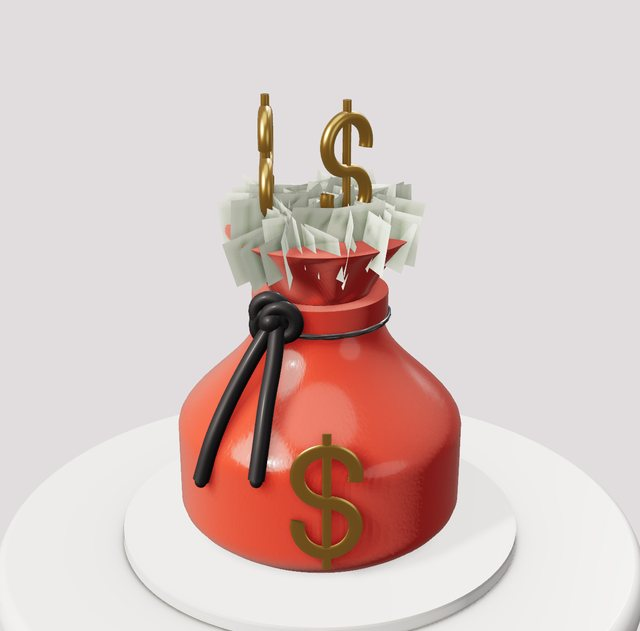
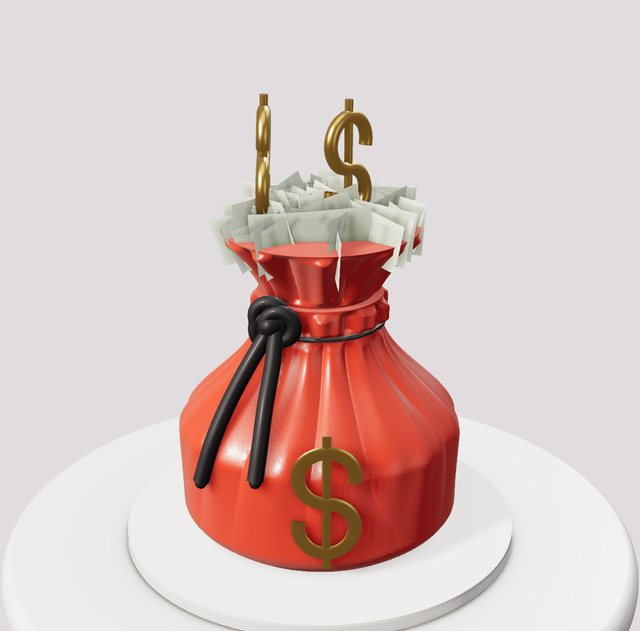
Bee body in piped grass tip; money bag gathered fabric folds (new Gathered Fabric texture)
Claude-Session: https://claude.ai/code/session_016sN14hzH19WJ5zrp8o2QGp

diff --git a/studio.html b/studio.html
@@ -439,7 +439,7 @@ const ti=b=>'<svg viewBox="0 0 48 24" fill="none" stroke="currentColor" stroke-w
 const TEX_ICONS={rosettes:ti('<circle cx="14" cy="8" r="4"/><circle cx="24" cy="8" r="4"/><circle cx="34" cy="8" r="4"/><circle cx="19" cy="16" r="4"/><circle cx="29" cy="16" r="4"/><path d="M14 8m-1.5 0a1.5 1.5 0 1 0 1.5-1.5M24 8m-1.5 0a1.5 1.5 0 1 0 1.5-1.5M34 8m-1.5 0a1.5 1.5 0 1 0 1.5-1.5" stroke-width="1"/>'),smooth:ti('<rect x="8" y="4" width="32" height="16" rx="2"/>'),seminaked:ti('<rect x="8" y="4" width="32" height="16" rx="2"/><path d="M10 10h8M22 10h6M32 10h6M12 15h10M26 15h10" stroke-dasharray="2 2"/>'),lines:ti('<path d="M8 6h32M8 10h32M8 14h32M8 18h32"/>'),ribbed:ti('<path d="M12 4v16M17 4v16M22 4v16M27 4v16M32 4v16M37 4v16"/>'),scallop:ti('<path d="M8 8c2-3 4-3 6 0s4 3 6 0 4-3 6 0 4 3 6 0 4-3 6 0M8 15c2-3 4-3 6 0s4 3 6 0 4-3 6 0 4 3 6 0 4-3 6 0"/>'),stripes:ti('<path d="M8 6h32M8 14h32" stroke-width="3"/><path d="M8 10h32M8 18h32" stroke-width="3" opacity=".4"/>'),combed:ti('<path d="M8 7h32M8 9.5h32M8 12h32M8 14.5h32M8 17h32" stroke-width="1"/>'),knife:ti('<path d="M8 16l8-8 6 5 7-7 5 4 6-4M10 20l9-5 7 3 9-6"/>'),stucco:ti('<path d="M10 16l2-5 2 5M18 12l2-5 2 5M26 16l2-5 2 5M34 12l2-5 2 5M14 20l2-4 2 4M30 20l2-4 2 4"/>'),swirl:ti('<path d="M10 14c0-6 10-6 10 0s-6 5-6 1M26 12c0-6 10-6 10 0s-6 5-6 1"/>'),wave:ti('<path d="M3 8c4-5 7 5 11 0s7 5 11 0 7 5 11 0 7 5 9 0M3 17c4-5 7 5 11 0s7 5 11 0 7 5 11 0 7 5 9 0"/>'),zigzag:ti('<path d="M3 9l5-5 5 5 5-5 5 5 5-5 5 5 5-5 5 5M3 19l5-5 5 5 5-5 5 5 5-5 5 5 5-5 5 5"/>'),basket:ti('<path d="M4 4h14v7H4zM20 4h14v7H20zM4 13h14v7H4zM20 13h14v7H20zM36 4h8v7h-8zM36 13h8v7h-8z"/>'),diamond:ti('<path d="M12 2l10 10-10 10L2 12zM32 2l10 10-10 10-10-10z"/>'),golf:ti('<circle cx="8" cy="7" r="2"/><circle cx="18" cy="7" r="2"/><circle cx="28" cy="7" r="2"/><circle cx="38" cy="7" r="2"/><circle cx="13" cy="15" r="2"/><circle cx="23" cy="15" r="2"/><circle cx="33" cy="15" r="2"/>'),dimple:ti('<circle cx="10" cy="7" r="3"/><circle cx="24" cy="7" r="3"/><circle cx="38" cy="7" r="3"/><circle cx="17" cy="17" r="3"/><circle cx="31" cy="17" r="3"/>'),ruffle:ti('<path d="M6 2c-4 6 4 14 0 20M16 2c-4 6 4 14 0 20M26 2c-4 6 4 14 0 20M36 2c-4 6 4 14 0 20"/>'),brushed:ti('<path d="M8 2v20M15 4v18M22 2v19M29 5v17M36 2v20"/>'),swipes:ti('<path d="M8 20l4-18M17 22l4-18M26 20l4-18M35 22l4-18"/>')};TEX_ICONS.grass=ti('<path d="M6 20l1-12M10 20l-1-10M14 20l2-12M18 20l-1-9M22 20l2-12M26 20l-1-10M30 20l2-12M34 20l-1-9M38 20l2-11M42 20l-1-10"/>');TEX_ICONS.fur=ti('<path d="M5 8c1 4 3 6 4 10M11 8c1 4 3 6 4 10M17 8c1 4 3 6 4 10M23 8c1 4 3 6 4 10M29 8c1 4 3 6 4 10M35 8c1 4 3 6 4 10M41 8c1 4 2 6 3 10"/>');
 const DRIPS=['#3b2216','#6b3f24','#f4ecdf','#b8742e','#d4ae5a','#c9ccd2','#e9a6ba','#9fc0d6'];
 const PALETTES=[{name:'Blush And Ivory',frost:['#fbf7f1','#f3d6dc','#fbf7f1'],pipe:'#fbf7f1',bow:'#f29bb4'},{name:'Sage Garden',frost:['#c9d8c5','#fbf7f1','#c9d8c5'],pipe:'#fbf7f1',bow:'#9db59a'},{name:'Dusty Blue',frost:['#d9e6ee','#fbf7f1','#d9e6ee'],pipe:'#fbf7f1',bow:'#9fc0d6'},{name:'Lavender',frost:['#cbbfe0','#fbf7f1','#cbbfe0'],pipe:'#fbf7f1',bow:'#cbbfe0'},{name:'Peach',frost:['#f6dcc8','#fbf7f1','#f6dcc8'],pipe:'#fbf7f1',bow:'#e9a6ba'},{name:'Black And Gold',frost:['#2f2a2c','#fbf7f1','#2f2a2c'],pipe:'#c9a24e',bow:'#c9a24e'},{name:'Chocolate Caramel',frost:['#7a4a32','#e7c08f','#7a4a32'],pipe:'#e7c08f',bow:'#6b4a3a'},{name:'All White',frost:['#fbf7f1','#fbf7f1','#fbf7f1'],pipe:'#fbf7f1',bow:'#fbf7f1'}];
-const TEXTURES={rosettes:'Rosette Cake',smooth:'Smooth',knife:'Palette Knife',lines:'Comb Lines',ribbed:'Ribbed Comb',scallop:'Scalloped',stripes:'Two-Tone Stripes',swirl:'Rustic Swirl',stucco:'Stucco Peaks',combed:'Fine Combed',seminaked:'Semi-Naked',wave:'Wavy Comb',zigzag:'Chevron Comb',basket:'Basket Weave',diamond:'Diamond Quilt',dimple:'Pillow Dimples',golf:'Golf Ball Dimples',ruffle:'Buttercream Ruffles',frills:'Fondant Frills',vruffles:'Vertical Fondant Ruffles',brushed:'Brushed Streaks',swipes:'Spatula Swipes',grass:'Piped Grass (All Over)',fur:'Piped Fur (All Over)'};
+const TEXTURES={rosettes:'Rosette Cake',smooth:'Smooth',knife:'Palette Knife',lines:'Comb Lines',ribbed:'Ribbed Comb',scallop:'Scalloped',stripes:'Two-Tone Stripes',swirl:'Rustic Swirl',stucco:'Stucco Peaks',combed:'Fine Combed',seminaked:'Semi-Naked',wave:'Wavy Comb',zigzag:'Chevron Comb',basket:'Basket Weave',diamond:'Diamond Quilt',dimple:'Pillow Dimples',golf:'Golf Ball Dimples',ruffle:'Buttercream Ruffles',frills:'Fondant Frills',vruffles:'Vertical Fondant Ruffles',gathers:'Gathered Fabric',brushed:'Brushed Streaks',swipes:'Spatula Swipes',grass:'Piped Grass (All Over)',fur:'Piped Fur (All Over)'};
 const BORDERS={none:'None',shells:'Shells',rshells:'Reverse Shells',pearls:'Pearls',dpearls:'Double Pearls',kisses:'Kisses',stars:'Star Drops',dflowers:'Drop Flowers',rosettes:'Rosettes',rope:'Rope',scrolls:'C-Scrolls',zigzag:'Zigzag',ruffle:'Ruffle',leaves:'Leaves',grass:'Piped Grass'};
 const SIDES={none:'None',drapes:'Fondant Drapes',swags:'Swags',double:'Double Swags',lambeth:'Lambeth',strings:'Drop Strings',quilted:'Quilted Pearls',deco:'Art Deco Fans'};
 const TOPS={none:'None',roses:'Sugar Roses',berries:'Fresh Berries',rosettes:'Rosette Crown',horn:'Unicorn Horn'};
@@ -1124,7 +1124,7 @@ const TEX3D={
  diamond:{rows:150,segs:400,make:(r,h,q)=>{const Nd=Math.max(8,Math.round(2*PI*r/.75));return(a,yy)=>{const ui=a/(2*PI)*Nd,vi=yy/.75;return .06*(Math.abs(Math.sin(PI*(ui+vi)))*Math.abs(Math.sin(PI*(ui-vi)))-.3)}}},
  dimple:{rows:150,segs:400,make:(r,h,q)=>{const N=Math.max(8,Math.round(2*PI*r/.6));return(a,yy)=>.05*Math.cos(N*a)*Math.cos(2*PI*yy/.6)}},
  golf:{rows:190,segs:640,make:(r,h,q)=>{const sp=.42,N=Math.max(10,Math.round(2*PI*r/sp)),cu=2*PI*r/N,vh=sp*.866,fr=x=>x-Math.floor(x);return(a,yy)=>{const v=yy/vh,row=Math.floor(v),u=fr(a/(2*PI))*N+(row%2?.5:0),du=(fr(u)-.5)*cu,dv=(fr(v)-.5)*vh,d=Math.hypot(du,dv),k=Math.max(0,1-d/.16);return -.045*k*k*(3-2*k)}}},
- vruffles:{rows:130,segs:1100,make:(r,h,q,t)=>{const V=(t&&t.vr)||{},N=Math.max(20,Math.round(r*7.5)),c=(V.c??180)*PI/180,w0=(V.w0??180)*PI/180,w1=(V.w1??180)*PI/180,A=V.depth??.34,ph=q()*6.28;return(a,yy)=>{const u=Math.min(1,Math.max(0,yy/h)),w=w0+(w1-w0)*u,d=Math.abs(Math.atan2(Math.sin(a-c),Math.cos(a-c))),m=w>=PI?1:smooth(w,w-.2,d);if(m<=0)return 0;const s=N*a/(2*PI)+.32*Math.sin(yy*1.5+ph+a*3)+.12*Math.sin(yy*3.7+a*7),f=s-Math.floor(s),pr=Math.pow(1-f,.55);return m*(A*(1.25-.45*u)*(.15+.85*pr)+.04*Math.sin(yy*6+a*13+ph))}}},frills:{rows:140,segs:720,make:(r,h,q)=>{const N=Math.max(12,Math.round(r*4.2)),RH=Math.max(1,h/Math.max(2,Math.round(h/1.35))),ph=[...Array(12)].map(()=>q()*6.28);return(a,yy)=>{const k=Math.floor(yy/RH),u=yy/RH-k,p=ph[k%12],w=Math.sin(N*a+p+.6*Math.sin(3*a+p))*.6+Math.sin(N*1.7*a+p*2)*.4;return(.03+.2*Math.pow(1-u,1.6))*(.55+.45*w)-.05}}},ruffle:{rows:50,segs:480,make:(r,h,q)=>{const N=Math.max(10,Math.round(r*3.4));return(a,yy)=>.1*Math.sin(N*a+.35*Math.sin(yy*.9))}},
+ gathers:{rows:120,segs:720,make:(r,h,q,t)=>{const N=Math.max(10,Math.round(r*2.6)),ph=[...Array(N)].map(()=>q()*.5);return(a,yy)=>{const u=Math.min(1,Math.max(0,yy/h)),k=t&&t.gFull?1:Math.pow(u,1.6),s=N*a/(2*PI)+.18*Math.sin(3*a+yy*.6)+.1*Math.sin(7*a),i=Math.floor(s),f=s-i,fold=Math.sin(PI*f)-.5;return k*(.42*fold*(1+ph[((i%N)+N)%N]))+(.06*Math.sin(N*2*a+yy*.7))*k}}},vruffles:{rows:130,segs:1100,make:(r,h,q,t)=>{const V=(t&&t.vr)||{},N=Math.max(20,Math.round(r*7.5)),c=(V.c??180)*PI/180,w0=(V.w0??180)*PI/180,w1=(V.w1??180)*PI/180,A=V.depth??.34,ph=q()*6.28;return(a,yy)=>{const u=Math.min(1,Math.max(0,yy/h)),w=w0+(w1-w0)*u,d=Math.abs(Math.atan2(Math.sin(a-c),Math.cos(a-c))),m=w>=PI?1:smooth(w,w-.2,d);if(m<=0)return 0;const s=N*a/(2*PI)+.32*Math.sin(yy*1.5+ph+a*3)+.12*Math.sin(yy*3.7+a*7),f=s-Math.floor(s),pr=Math.pow(1-f,.55);return m*(A*(1.25-.45*u)*(.15+.85*pr)+.04*Math.sin(yy*6+a*13+ph))}}},frills:{rows:140,segs:720,make:(r,h,q)=>{const N=Math.max(12,Math.round(r*4.2)),RH=Math.max(1,h/Math.max(2,Math.round(h/1.35))),ph=[...Array(12)].map(()=>q()*6.28);return(a,yy)=>{const k=Math.floor(yy/RH),u=yy/RH-k,p=ph[k%12],w=Math.sin(N*a+p+.6*Math.sin(3*a+p))*.6+Math.sin(N*1.7*a+p*2)*.4;return(.03+.2*Math.pow(1-u,1.6))*(.55+.45*w)-.05}}},ruffle:{rows:50,segs:480,make:(r,h,q)=>{const N=Math.max(10,Math.round(r*3.4));return(a,yy)=>.1*Math.sin(N*a+.35*Math.sin(yy*.9))}},
  brushed:{rows:110,segs:420,make:(r,h,q)=>{const f=fbm(36,2,1100+Math.floor(q()*500));return(a,yy)=>{const u=((a/(2*PI))%1+1)%1;return .07*(f(u,(yy/h)*.12)-.5)}}},
  swipes:{rows:110,segs:420,make:(r,h,q)=>{const N=Math.max(8,Math.round(2*PI*r/.8)),f=fbm(N,2,1300+Math.floor(q()*500));return(a,yy)=>{const ui=a/(2*PI)*N,fr=((ui%1)+1)%1,u=((a/(2*PI))%1+1)%1;return .06*(fr-.5)+.03*(f(u,(yy/h)*.3)-.5)}}}};
 const texFade=(yy,h)=>smooth(.03,.3,yy)*smooth(h-.02,h-.32,yy);
@@ -1669,11 +1669,11 @@ THEMES.unshift(
   newTier(8,7,{color:'#c4c8ce',finish:'fondant',texture:'brushed',top:'rope',pipe:'#aeb2b8',bottom:'rope',bottomColor:'#aeb2b8',decor:[DC('pothandle','band',2,{color:'#c9ccd2',size:160,y:2,rot:95}),DC('potlid2','cluster',1,{color:'#c9ccd2',size:300,center:true}),DC('crawfish','crown',9,{color:'#d2381e',size:300}),DC('corncob','crown',3,{color:'#eeb31c',size:250,rot:60}),DC('crawhang','band',6,{color:'#d2381e',size:240,y:2.2}),DC('cornup','cluster',4,{color:'#eeb31c',size:300,where:'board',seed:3}),DC('corncob','cluster',2,{color:'#eeb31c',size:280,where:'board',seed:9}),DC('potato','cluster',5,{color:'#c99a45',size:320,where:'board'})]})]}},
  {key:'sig_bee',name:'Bumble Bee Garden',tag:SIG,blurb:'A fuzzy black piped bee dome with a big round yellow face, googly eyes and a smile, swirl wings and curly antennae, in a garden of piped grass and sugar flowers.',d:{board:'white',boardColor:'#c9d96a',topper:'none',tiers:[
   newTier(13,1.4,{color:'#5cae4a',texture:'grass',top:'none',bottom:'none',decor:[DC('daisies','scatter',12,{color:'#fbf7f1',size:130}),DC('blossoms','scatter',18,{mix:['#f3a6c0','#f2c230','#7fb0e8','#e8475f'],size:130})]}),
-  newTier(10,6,{color:'#1d1b1f',texture:'fur',prof:'half',top:'none',bottom:'none',decor:[DC('beeface','band',1,{color:'#ffd21f',size:370,R:4.3,rot:55,y:-.3}),DC('beetop','cluster',1,{color:'#ffd21f',size:260,center:true,face:95})]})]}},
- {key:'sig_moneybag',name:'Money Bag Birthday',tag:SIG,blurb:'A red money bag cake with a gathered neck tied in thick black rope with a knot and hanging ties, a big gold dollar sign, and cash and gold dollar signs bursting out the top.',d:{board:'white',boardColor:'#e9eaec',topper:'none',tiers:[
-  newTier(9.4,7.4,{color:'#b5321f',prof:'sack',texture:'smooth',top:'none',bottom:'none',decor:[DC('dollarface','band',1,{color:'#d4ae5a',size:320,R:4.7,rot:55,y:-.5})]}),
-  newTier(4.4,.9,{color:'#a82e1c',top:'rope',pipe:'#1d1b1f',bottom:'rope',bottomColor:'#1d1b1f',decor:[DC('ropeknot','band',1,{color:'#1d1b1f',size:200,rot:92,y:.1})]}),
-  newTier(5.4,2,{color:'#b5321f',texture:'ruffle',prof:'flare',top:'none',bottom:'none',decor:[DC('cash','cluster',26,{size:360,center:true}),DC('dollarsign','cluster',2,{color:'#d4ae5a',size:300,center:true})]})]}});
+  newTier(10,6,{color:'#1d1b1f',texture:'grass',furLen:150,prof:'half',top:'none',bottom:'none',decor:[DC('beeface','band',1,{color:'#ffd21f',size:370,R:4.3,rot:55,y:-.3}),DC('beetop','cluster',1,{color:'#ffd21f',size:260,center:true,face:95})]})]}},
+ {key:'sig_moneybag',name:'Money Bag Birthday',tag:SIG,blurb:'A red money bag cake gathered up like a real sack, tied at the neck with a thick black rope knot and hanging ties, a big gold dollar sign, and cash and gold dollar signs spilling out of the ruffled opening.',d:{board:'white',boardColor:'#e9eaec',topper:'none',tiers:[
+  newTier(9.4,7.4,{color:'#b5321f',finish:'royal',prof:'sack',texture:'gathers',top:'none',bottom:'none',decor:[DC('dollarface','band',1,{color:'#d4ae5a',size:320,R:4.7,rot:55,y:-.5})]}),
+  newTier(4.2,1,{color:'#a82e1c',finish:'royal',texture:'gathers',gFull:true,top:'rope',pipe:'#1d1b1f',bottom:'rope',bottomColor:'#1d1b1f',decor:[DC('ropeknot','band',1,{color:'#1d1b1f',size:200,rot:92,y:.1})]}),
+  newTier(5.8,2.2,{color:'#b5321f',finish:'royal',texture:'gathers',gFull:true,prof:'flare',top:'none',bottom:'none',decor:[DC('cash','cluster',26,{size:360,center:true}),DC('dollarsign','cluster',2,{color:'#d4ae5a',size:300,center:true})]})]}});
 Object.assign(DECOR,Object.fromEntries(Object.entries(MODELS).map(([k,d])=>['m_'+k,{label:d[0]+' (3D)',layouts:['cluster','crown'],layout:'cluster',count:1,max:6,sp:3,side:'up',spin:.3,sink:0,embed:0,noTilt:true,model:true,make:(q,c,mode,dc)=>{const e=MODEL_CACHE[k];if(!e){loadModel(k);return[]}if(!e.parts)return[];if(e.pieces){const n=e.pieces.length,pi=dc?.piece!=null?dc.piece%n:Math.floor(q()*n);return e.pieces[pi].map(([m,g])=>[c?tintMat(m,c):m,g.clone()])}return e.parts.map(([m,g],pi)=>{const pc=dc?.partColors?.[pi]||c;return[pc?tintMat(m,pc):m,g.clone()]})}}])));
 for(const v of Object.values(DECOR))if(v&&v.label)v.label=capWords(v.label);
 DECOR_CATS.push({key:'m_figures',label:'3D Figures',items:['mermaid','princess','unicorn','unicornstand','unicrown','wedding','fairytale'].map(k=>'m_'+k)},{key:'m_animals',label:'3D Animals',items:['giraffe3','panda','sheep','rabbit3','corgi','duck','rubberduck','swans','butterfly3','panda2'].map(k=>'m_'+k)},{key:'m_dino',label:'3D Dinosaurs',items:['dino','babydino','spino','dino2','friendlydino','littledino','dino3','camodino','dinoemerge','jungledino'].map(k=>'m_'+k)},{key:'m_ocean',label:'3D Ocean',items:['oceangate','oceandancer','oceanjewel','oceansmile','oceanbloom','mermaidtale','mermaiddelight','unimermaid','mermaidtail','starfish','fish1','fish2'].map(k=>'m_'+k)},{key:'m_food',label:'3D Treats And Food',items:['corndog','popcorn','foodA','foodB','fries','pizza','burger','coffee'].map(k=>'m_'+k)},{key:'m_vehicles',label:'3D Cars And Sports',items:['carcartoon','cartooncar','whitecar','redcar','weatheredcar','baseball','basketball','tennis'].map(k=>'m_'+k)},{key:'m_trees',label:'3D Trees And Nature',items:['tree2','tree3','pinetree','mushroom','snowflake','leaf','mountain','fence'].map(k=>'m_'+k)},{key:'m_themes',label:'3D Toppers',items:['gradcap','rocket','shuttle','galleon','chest','globe','skull','wings','crystal','crystalflake'].map(k=>'m_'+k)},{key:'m_frames',label:'Frames',items:['frame','frame2','baroqueframe','luxe'].map(k=>'m_'+k)},{key:'m_bows',label:'Bows & Ribbons',items:['bowpastel','bowred'].map(k=>'m_'+k)});

diff --git a/tools/signature-decor.js b/tools/signature-decor.js
@@ -337,8 +337,8 @@ THEMES.unshift(
   newTier(8,7,{color:'#c4c8ce',finish:'fondant',texture:'brushed',top:'rope',pipe:'#aeb2b8',bottom:'rope',bottomColor:'#aeb2b8',decor:[DC('pothandle','band',2,{color:'#c9ccd2',size:160,y:2,rot:95}),DC('potlid2','cluster',1,{color:'#c9ccd2',size:300,center:true}),DC('crawfish','crown',9,{color:'#d2381e',size:300}),DC('corncob','crown',3,{color:'#eeb31c',size:250,rot:60}),DC('crawhang','band',6,{color:'#d2381e',size:240,y:2.2}),DC('cornup','cluster',4,{color:'#eeb31c',size:300,where:'board',seed:3}),DC('corncob','cluster',2,{color:'#eeb31c',size:280,where:'board',seed:9}),DC('potato','cluster',5,{color:'#c99a45',size:320,where:'board'})]})]}},
  {key:'sig_bee',name:'Bumble Bee Garden',tag:SIG,blurb:'A fuzzy black piped bee dome with a big round yellow face, googly eyes and a smile, swirl wings and curly antennae, in a garden of piped grass and sugar flowers.',d:{board:'white',boardColor:'#c9d96a',topper:'none',tiers:[
   newTier(13,1.4,{color:'#5cae4a',texture:'grass',top:'none',bottom:'none',decor:[DC('daisies','scatter',12,{color:'#fbf7f1',size:130}),DC('blossoms','scatter',18,{mix:['#f3a6c0','#f2c230','#7fb0e8','#e8475f'],size:130})]}),
-  newTier(10,6,{color:'#1d1b1f',texture:'fur',prof:'half',top:'none',bottom:'none',decor:[DC('beeface','band',1,{color:'#ffd21f',size:370,R:4.3,rot:55,y:-.3}),DC('beetop','cluster',1,{color:'#ffd21f',size:260,center:true,face:95})]})]}},
- {key:'sig_moneybag',name:'Money Bag Birthday',tag:SIG,blurb:'A red money bag cake with a gathered neck tied in thick black rope with a knot and hanging ties, a big gold dollar sign, and cash and gold dollar signs bursting out the top.',d:{board:'white',boardColor:'#e9eaec',topper:'none',tiers:[
-  newTier(9.4,7.4,{color:'#b5321f',prof:'sack',texture:'smooth',top:'none',bottom:'none',decor:[DC('dollarface','band',1,{color:'#d4ae5a',size:320,R:4.7,rot:55,y:-.5})]}),
-  newTier(4.4,.9,{color:'#a82e1c',top:'rope',pipe:'#1d1b1f',bottom:'rope',bottomColor:'#1d1b1f',decor:[DC('ropeknot','band',1,{color:'#1d1b1f',size:200,rot:92,y:.1})]}),
-  newTier(5.4,2,{color:'#b5321f',texture:'ruffle',prof:'flare',top:'none',bottom:'none',decor:[DC('cash','cluster',26,{size:360,center:true}),DC('dollarsign','cluster',2,{color:'#d4ae5a',size:300,center:true})]})]}});
+  newTier(10,6,{color:'#1d1b1f',texture:'grass',furLen:150,prof:'half',top:'none',bottom:'none',decor:[DC('beeface','band',1,{color:'#ffd21f',size:370,R:4.3,rot:55,y:-.3}),DC('beetop','cluster',1,{color:'#ffd21f',size:260,center:true,face:95})]})]}},
+ {key:'sig_moneybag',name:'Money Bag Birthday',tag:SIG,blurb:'A red money bag cake gathered up like a real sack, tied at the neck with a thick black rope knot and hanging ties, a big gold dollar sign, and cash and gold dollar signs spilling out of the ruffled opening.',d:{board:'white',boardColor:'#e9eaec',topper:'none',tiers:[
+  newTier(9.4,7.4,{color:'#b5321f',finish:'royal',prof:'sack',texture:'gathers',top:'none',bottom:'none',decor:[DC('dollarface','band',1,{color:'#d4ae5a',size:320,R:4.7,rot:55,y:-.5})]}),
+  newTier(4.2,1,{color:'#a82e1c',finish:'royal',texture:'gathers',gFull:true,top:'rope',pipe:'#1d1b1f',bottom:'rope',bottomColor:'#1d1b1f',decor:[DC('ropeknot','band',1,{color:'#1d1b1f',size:200,rot:92,y:.1})]}),
+  newTier(5.8,2.2,{color:'#b5321f',finish:'royal',texture:'gathers',gFull:true,prof:'flare',top:'none',bottom:'none',decor:[DC('cash','cluster',26,{size:360,center:true}),DC('dollarsign','cluster',2,{color:'#d4ae5a',size:300,center:true})]})]}});

diff --git a/tools/sig-themes.js b/tools/sig-themes.js
@@ -54,8 +54,8 @@ THEMES.unshift(
   newTier(8,7,{color:'#c4c8ce',finish:'fondant',texture:'brushed',top:'rope',pipe:'#aeb2b8',bottom:'rope',bottomColor:'#aeb2b8',decor:[DC('pothandle','band',2,{color:'#c9ccd2',size:160,y:2,rot:95}),DC('potlid2','cluster',1,{color:'#c9ccd2',size:300,center:true}),DC('crawfish','crown',9,{color:'#d2381e',size:300}),DC('corncob','crown',3,{color:'#eeb31c',size:250,rot:60}),DC('crawhang','band',6,{color:'#d2381e',size:240,y:2.2}),DC('cornup','cluster',4,{color:'#eeb31c',size:300,where:'board',seed:3}),DC('corncob','cluster',2,{color:'#eeb31c',size:280,where:'board',seed:9}),DC('potato','cluster',5,{color:'#c99a45',size:320,where:'board'})]})]}},
  {key:'sig_bee',name:'Bumble Bee Garden',tag:SIG,blurb:'A fuzzy black piped bee dome with a big round yellow face, googly eyes and a smile, swirl wings and curly antennae, in a garden of piped grass and sugar flowers.',d:{board:'white',boardColor:'#c9d96a',topper:'none',tiers:[
   newTier(13,1.4,{color:'#5cae4a',texture:'grass',top:'none',bottom:'none',decor:[DC('daisies','scatter',12,{color:'#fbf7f1',size:130}),DC('blossoms','scatter',18,{mix:['#f3a6c0','#f2c230','#7fb0e8','#e8475f'],size:130})]}),
-  newTier(10,6,{color:'#1d1b1f',texture:'fur',prof:'half',top:'none',bottom:'none',decor:[DC('beeface','band',1,{color:'#ffd21f',size:370,R:4.3,rot:55,y:-.3}),DC('beetop','cluster',1,{color:'#ffd21f',size:260,center:true,face:95})]})]}},
- {key:'sig_moneybag',name:'Money Bag Birthday',tag:SIG,blurb:'A red money bag cake with a gathered neck tied in thick black rope with a knot and hanging ties, a big gold dollar sign, and cash and gold dollar signs bursting out the top.',d:{board:'white',boardColor:'#e9eaec',topper:'none',tiers:[
-  newTier(9.4,7.4,{color:'#b5321f',prof:'sack',texture:'smooth',top:'none',bottom:'none',decor:[DC('dollarface','band',1,{color:'#d4ae5a',size:320,R:4.7,rot:55,y:-.5})]}),
-  newTier(4.4,.9,{color:'#a82e1c',top:'rope',pipe:'#1d1b1f',bottom:'rope',bottomColor:'#1d1b1f',decor:[DC('ropeknot','band',1,{color:'#1d1b1f',size:200,rot:92,y:.1})]}),
-  newTier(5.4,2,{color:'#b5321f',texture:'ruffle',prof:'flare',top:'none',bottom:'none',decor:[DC('cash','cluster',26,{size:360,center:true}),DC('dollarsign','cluster',2,{color:'#d4ae5a',size:300,center:true})]})]}});
+  newTier(10,6,{color:'#1d1b1f',texture:'grass',furLen:150,prof:'half',top:'none',bottom:'none',decor:[DC('beeface','band',1,{color:'#ffd21f',size:370,R:4.3,rot:55,y:-.3}),DC('beetop','cluster',1,{color:'#ffd21f',size:260,center:true,face:95})]})]}},
+ {key:'sig_moneybag',name:'Money Bag Birthday',tag:SIG,blurb:'A red money bag cake gathered up like a real sack, tied at the neck with a thick black rope knot and hanging ties, a big gold dollar sign, and cash and gold dollar signs spilling out of the ruffled opening.',d:{board:'white',boardColor:'#e9eaec',topper:'none',tiers:[
+  newTier(9.4,7.4,{color:'#b5321f',finish:'royal',prof:'sack',texture:'gathers',top:'none',bottom:'none',decor:[DC('dollarface','band',1,{color:'#d4ae5a',size:320,R:4.7,rot:55,y:-.5})]}),
+  newTier(4.2,1,{color:'#a82e1c',finish:'royal',texture:'gathers',gFull:true,top:'rope',pipe:'#1d1b1f',bottom:'rope',bottomColor:'#1d1b1f',decor:[DC('ropeknot','band',1,{color:'#1d1b1f',size:200,rot:92,y:.1})]}),
+  newTier(5.8,2.2,{color:'#b5321f',finish:'royal',texture:'gathers',gFull:true,prof:'flare',top:'none',bottom:'none',decor:[DC('cash','cluster',26,{size:360,center:true}),DC('dollarsign','cluster',2,{color:'#d4ae5a',size:300,center:true})]})]}});
